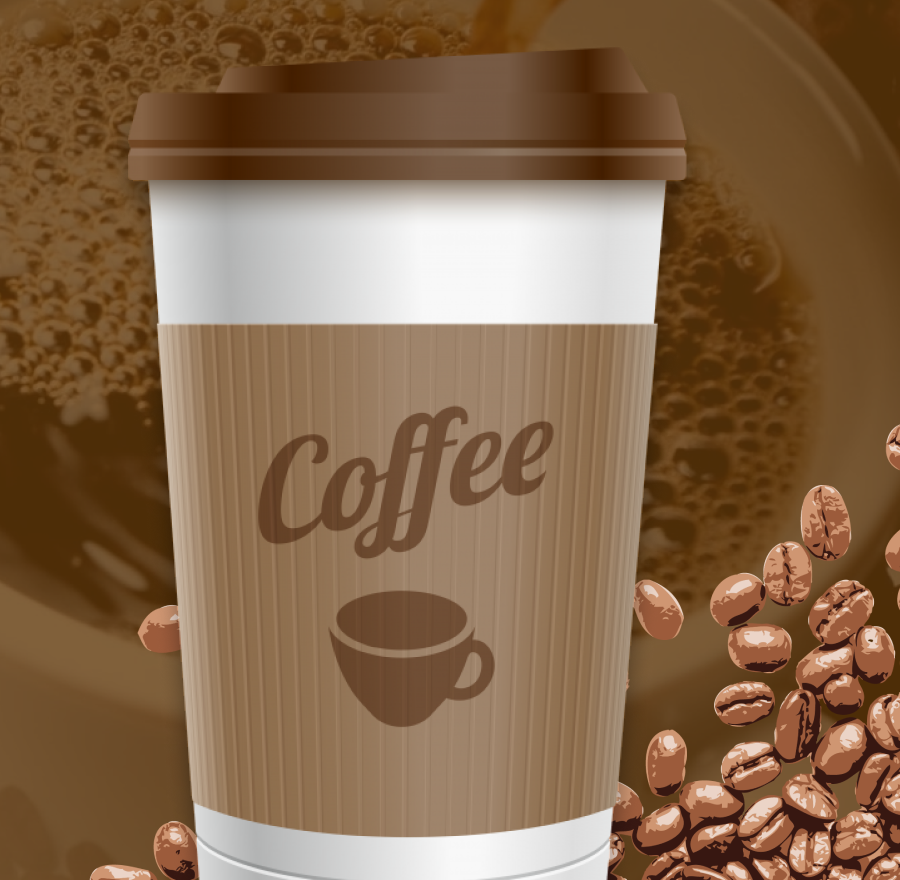
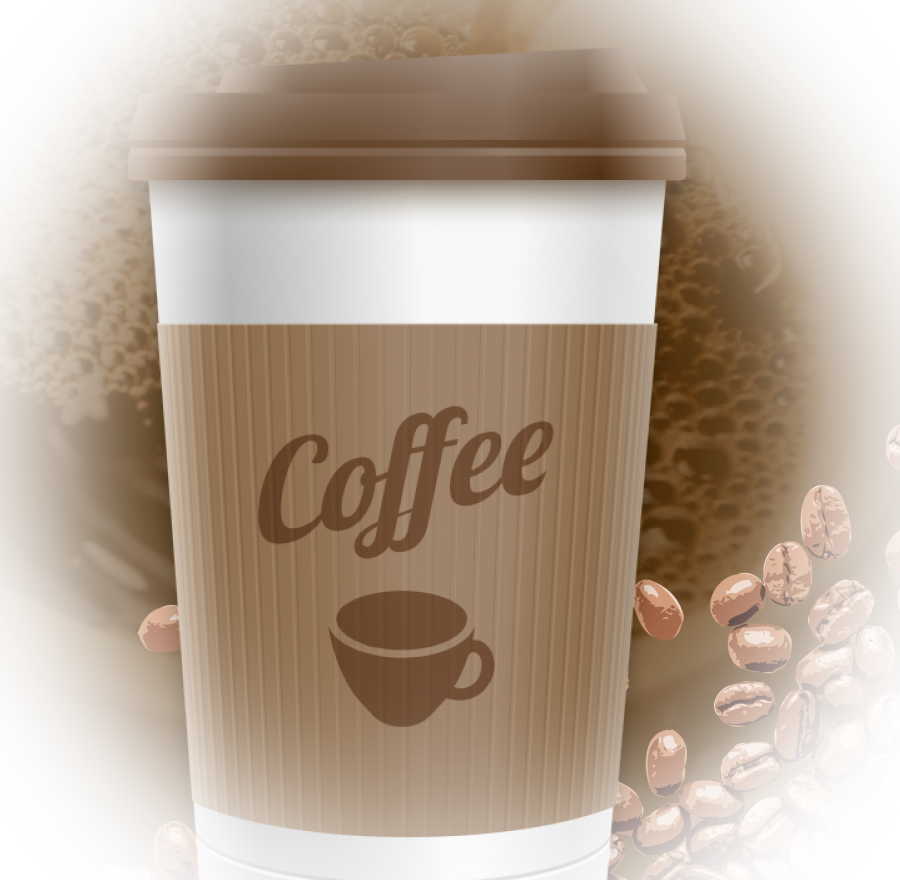
Blend promo cup into background without hard rectangular crop.

diff --git a/bean-scene/styles.css b/bean-scene/styles.css
@@ -541,13 +541,19 @@ select {
   margin: 0;
   display: flex;
   justify-content: center;
+  align-items: center;
   background: transparent;
+  overflow: visible;
 }
 
 .promo__media img {
-  width: min(380px, 100%);
-  filter: drop-shadow(0 18px 30px rgba(0, 0, 0, 0.35));
+  width: min(460px, 105%);
+  max-width: none;
+  height: auto;
+  filter: drop-shadow(0 24px 40px rgba(0, 0, 0, 0.5));
   background: transparent;
+  -webkit-mask-image: radial-gradient(ellipse 68% 72% at 52% 48%, #000 42%, transparent 78%);
+  mask-image: radial-gradient(ellipse 68% 72% at 52% 48%, #000 42%, transparent 78%);
 }
 
 /* Feedback */
